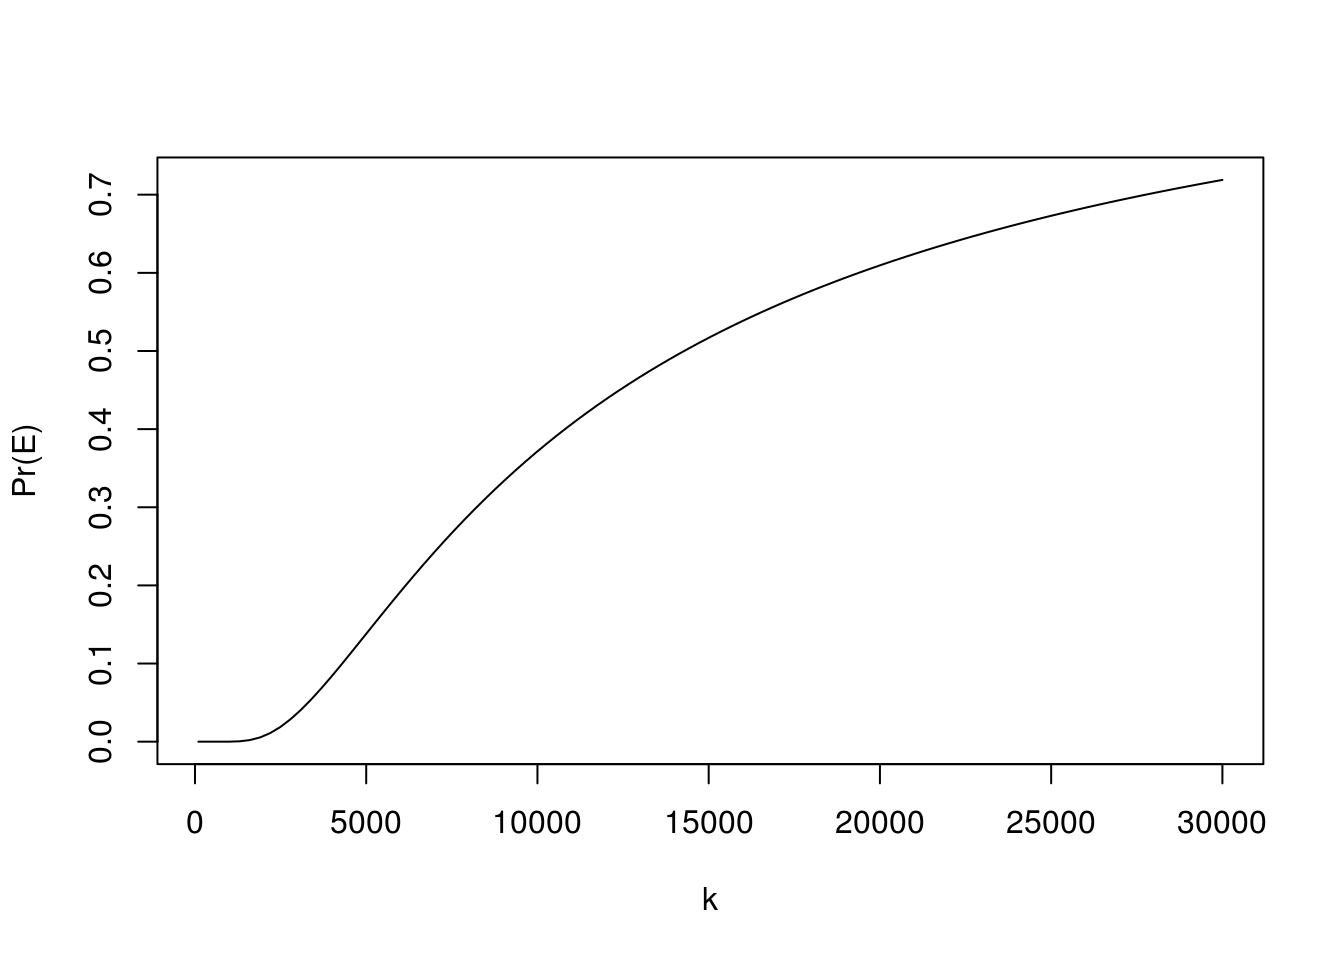
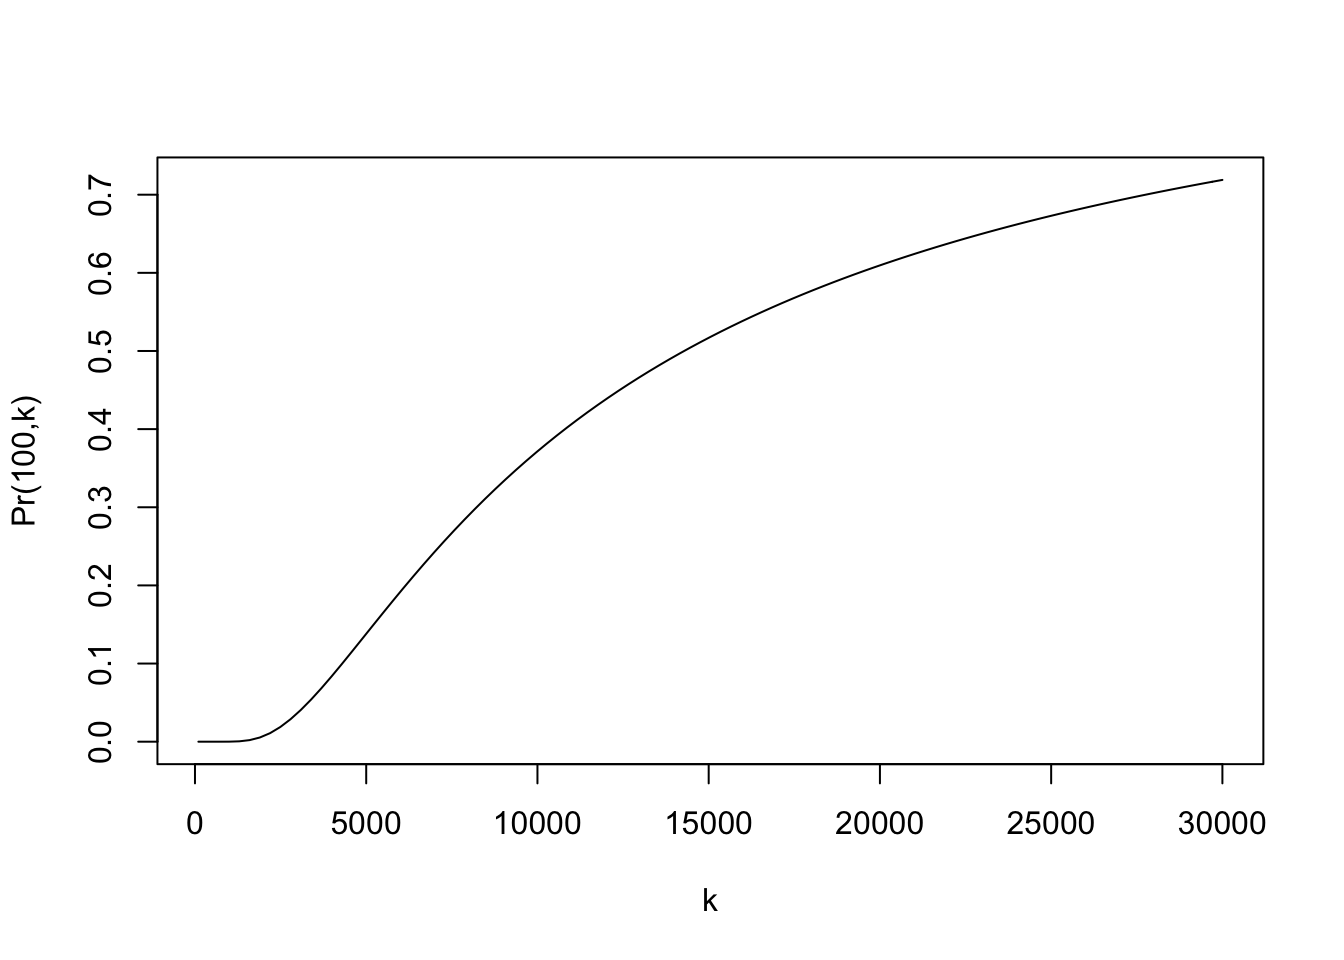
update the stars post

diff --git a/content/post/2017-09-19-stars-and-bars-and-prisoners.html b/content/post/2017-09-19-stars-and-bars-and-prisoners.html
@@ -23,41 +23,43 @@ slug: stars-and-bars-and-prisoners
 <h2>Combination</h2>
 <p>Since the order of the prisoners doesn’t matter, the problem is a <a href="https://en.wikipedia.org/wiki/Combination">combination</a> question. In conventional combinations, the number of <span class="math inline">\(k\)</span>-combinations of a <span class="math inline">\(n\)</span>-element set (<span class="math inline">\(k \leq n\)</span>) is equal to the binomial coefficient <span class="math inline">\({{n}\choose{k}} = \frac{n!}{k!(n-k)!} = \frac{n(n-1)...(n-k+1)}{k(k-1)...1}\)</span>. For example, there are <span class="math inline">\({{3}\choose{2}} = \frac{3 \times 2}{2 \times 1} = 3\)</span> ways to choose a 2-element tuple from a 3-element set <span class="math inline">\(\{A, B, C\}\)</span>, namely <span class="math inline">\((A, B)\)</span>, <span class="math inline">\((A, C)\)</span>, and <span class="math inline">\((B, C)\)</span>.</p>
 <p>Conventional combinations are drawn without repetition. The 3 tuples in the previous example are all unique sets. However, in our prisoner problem, the same prisoner can be taken more than once, so the binomial coefficient doesn’t seem to apply here.</p>
-<p>What we need here is a way to <a href="https://en.wikipedia.org/wiki/Multiset#Counting_multisets">count multisets</a>. Formally, the number of multisets of cardinality <span class="math inline">\(k\)</span>, with elements taken from a finite set of cardinality <span class="math inline">\(n\)</span>, is the multiset coefficient, written as <span class="math inline">\(\left(\!\!{n\choose k}\!\!\right)\)</span>.</p>
+<p>What I need here is a way to <a href="https://en.wikipedia.org/wiki/Multiset#Counting_multisets">count multisets</a>. Formally, the number of multisets of cardinality <span class="math inline">\(k\)</span>, with elements taken from a finite set of cardinality <span class="math inline">\(n\)</span>, is the multiset coefficient, written as <span class="math inline">\(\left(\!\!{n\choose k}\!\!\right)\)</span>.</p>
 <p>The value of multiset coefficient can be computed using an equivalent binomial coefficient.</p>
 <p><span class="math display">\[\left(\!\!{n\choose k}\!\!\right) = {{n+k-1}\choose{k}} = \frac{(n+k-1)!}{k!(n-1)!}\]</span></p>
 <p>To see this equivalence, one can use a simple technique called <a href="https://en.wikipedia.org/wiki/Stars_and_bars_(combinatorics)">stars and bars</a>.</p>
 <p>Suppose 3 elements are drawn with repetition from the set <span class="math inline">\({1,2}\)</span> of cardinality 2 (<span class="math inline">\(n=2, k=3\)</span>). It’s not difficult to enumerate all possible multisets because there are only 4 of them: <span class="math inline">\(\{1,1,1\}\)</span>, <span class="math inline">\(\{1,1,2\}\)</span>, <span class="math inline">\(\{1,2,2\}\)</span>, and <span class="math inline">\(\{2,2,2\}\)</span>.</p>
-<p>We can also represent those multisets in another form.</p>
+<p>I can also represent those multisets in another form.</p>
 <p><span class="math inline">\(\{{\bullet}{\bullet}{\bullet}|\}\)</span>, <span class="math inline">\(\{{\bullet}{\bullet}|{\bullet}\}\)</span>, <span class="math inline">\(\{{\bullet}|{\bullet}{\bullet}\}\)</span>, and <span class="math inline">\(\{|{\bullet}{\bullet}{\bullet}\}\)</span></p>
 <p>In this form, all elements are denoted as a dot. Vertical bars are put to divide the dots into bins, with each bin representing an element from the unique set. It’s possible to have a bin with no elements which basically means that the particular unique element doesn’t have any corresponding elements in the multiset (e.g., the first multiset doesn’t have element <span class="math inline">\(2\)</span> and the last multiset doesn’t have <span class="math inline">\(1\)</span>).</p>
-<p>One needs <span class="math inline">\(n-1\)</span> bars to represent a unique set of cardinality <span class="math inline">\(n\)</span>. If we count the total number of dots and bars in a <span class="math inline">\(k\)</span>-element multiset, it’s <span class="math inline">\(k+n-1\)</span>. Then the total number of possible <span class="math inline">\(k\)</span>-element multisets equals to the total number of ways of placing <span class="math inline">\(n-1\)</span> bars in <span class="math inline">\(k+n-1\)</span> items, which is <span class="math inline">\({{k+n-1}\choose{n-1}} = {{k+n-1}\choose{k}}\)</span>.</p>
+<p>One needs <span class="math inline">\(n-1\)</span> bars to represent a unique set of cardinality <span class="math inline">\(n\)</span>. If I count the total number of dots and bars in a <span class="math inline">\(k\)</span>-element multiset, it’s <span class="math inline">\(k+n-1\)</span>. Then the total number of possible <span class="math inline">\(k\)</span>-element multisets equals to the total number of ways of placing <span class="math inline">\(n-1\)</span> bars in <span class="math inline">\(k+n-1\)</span> items, which is <span class="math inline">\({{k+n-1}\choose{n-1}} = {{k+n-1}\choose{k}}\)</span>.</p>
 </div>
 <div id="the-denominator" class="section level2">
 <h2>The denominator</h2>
-<p>Let’s return to the original question. What’s the probability of all prisoners being taken to the room at least once after the warden takes <span class="math inline">\(k\)</span> times? To compute this probability, we need to compute the total number of possible scenarios which will serve as the denominator.</p>
-<p>The total number should equal to <span class="math inline">\(\left(\!\!{100\choose k}\!\!\right)\)</span>, for a <span class="math inline">\(k \geq 100\)</span>. From the previous section, we can work out <span class="math inline">\(\left(\!\!{100\choose k}\!\!\right) = {{k+100-1}\choose{k}} = {{k+99}\choose{k}}\)</span>.</p>
+<p>Let’s return to the original question. What’s the probability of all prisoners being taken to the room at least once after the warden takes <span class="math inline">\(k\)</span> times? To compute this probability, I need to compute the total number of possible scenarios which will serve as the denominator.</p>
+<p>The total number should equal to <span class="math inline">\(\left(\!\!{n\choose k}\!\!\right)\)</span>, for a <span class="math inline">\(k \geq n\)</span>. From the previous section, I can work out <span class="math inline">\(\left(\!\!{n\choose k}\!\!\right) = {{k+n-1}\choose{k}}\)</span>.</p>
 </div>
 <div id="the-numerator" class="section level2">
 <h2>The numerator</h2>
-<p>The numerator of the probability is the number of multisets in which all prisoners are present at least once. The trick to compute this number is to divide any such multiset into two parts: one set that contains all 100 prisoners and the other with remaining <span class="math inline">\(k-100\)</span> elements. Then the total number of such multisets equals to <span class="math inline">\(\left(\!\!{100\choose k-100}\!\!\right) = {{100+k-100-1}\choose{100-1}} = {{k-1}\choose{99}}\)</span>, for a <span class="math inline">\(k \geq 100\)</span>.</p>
+<p>The numerator of the probability is the number of multisets in which all prisoners are present at least once. The trick to compute this number is to divide any such multiset into two parts: one set that contains all 100 prisoners and the other with remaining <span class="math inline">\(k-100\)</span> elements. Then the total number of such multisets equals to <span class="math inline">\(\left(\!\!{n\choose k-n}\!\!\right) = {{n+k-n-1}\choose{n-1}} = {{k-1}\choose{n-1}}\)</span>, for a <span class="math inline">\(k \geq n\)</span>.</p>
 </div>
 <div id="the-probability" class="section level2">
 <h2>The probability</h2>
-<p>Once we have both the denominator and numerator, the probability is straightforward to compute.</p>
-<p><span class="math display">\[Pr(E) = \frac{{{k-1}\choose{99}}}{{{k+99}\choose{k}}} = \frac{\frac{(k-1)!}{99! \cdot (k-100)!}}{\frac{(k+99)!}{k! \cdot 99!}} = \frac{k!(k-1)!}{(k+99)!(k-100)!}\]</span></p>
-<p>We can plot this probability function for <span class="math inline">\(100 \leq k \leq 200\)</span>.</p>
+<p>Once I have both the denominator and numerator, the probability is straightforward to compute.</p>
+<p><span class="math display">\[Pr(n,k) = \frac{{{k-1}\choose{n-1}}}{{{k+n-1}\choose{k}}} = \frac{\frac{(k-1)!}{(n-1)! \cdot (k-n)!}}{\frac{(k+n-1)!}{k! \cdot (n-1)!}} = \frac{k!(k-1)!}{(k+n-1)!(k-n)!}\]</span></p>
+<p>In our case, <span class="math inline">\(n=100\)</span>, so</p>
+<p><span class="math display">\[Pr(100,k) = \frac{k!(k-1)!}{(k+99)!(k-100)!}\]</span></p>
+<p>I can plot this probability function for <span class="math inline">\(100 \leq k \leq 200\)</span>.</p>
 <pre class="r"><code>Pr &lt;- function(k) {
   choose(k-1, 99)/choose(k+99, k)
 }
-curve(Pr, from = 100, to = 200, xlab = &quot;k&quot;, ylab = &quot;Pr(E)&quot;)</code></pre>
+curve(Pr, from = 100, to = 200, xlab = &quot;k&quot;, ylab = &quot;Pr(100,k)&quot;)</code></pre>
 <p><img src="/post/2017-09-19-stars-and-bars-and-prisoners_files/figure-html/unnamed-chunk-1-1.png" width="672" /></p>
 <p>The plot shows that the probability of getting all prisoners at least once even after the warden takes 200 times is so slim that it’s practically 0.</p>
-<p>We can extend the possible <span class="math inline">\(k\)</span> values.</p>
-<pre class="r"><code>curve(Pr, from = 100, to = 30000, xlab = &quot;k&quot;, ylab = &quot;Pr(E)&quot;)</code></pre>
+<p>I can extend the possible <span class="math inline">\(k\)</span> values.</p>
+<pre class="r"><code>curve(Pr, from = 100, to = 30000, xlab = &quot;k&quot;, ylab = &quot;Pr(100,k)&quot;)</code></pre>
 <p><img src="/post/2017-09-19-stars-and-bars-and-prisoners_files/figure-html/unnamed-chunk-2-1.png" width="672" /></p>
 <p>For the probability to reach 10%, the warden needs to take nearly 5,000 times. The probability increases a bit faster once <span class="math inline">\(k\)</span> exceeds 5,000, but it still takes about 10,000 times before it gets near 40%.</p>
-<p>We can also find out the minimum <span class="math inline">\(k\)</span> that makes the probability greater than 50% (i.e., better than a coin flip).</p>
+<p>I can also find out the minimum <span class="math inline">\(k\)</span> that makes the probability greater than 50% (i.e., better than a coin flip).</p>
 <pre class="r"><code>for (k in seq(100, 30000, 1)) {
   if (Pr(k) &gt;= 0.5) {
     print(paste0(&quot;It takes &quot;, k, &quot; times for the probability to reach 50%.&quot;))
@@ -75,4 +77,101 @@ curve(Pr, from = 100, to = 200, xlab = &quot;k&quot;, ylab = &quot;Pr(E)&quot;)<
 }</code></pre>
 <pre><code>## [1] &quot;It takes 44367 times for the probability to reach 80%.&quot;</code></pre>
 <p>That’s 121.55 years! If that ever happens, the warden has to be the most dedicated warden in history.</p>
+</div>
+<div id="is-it-right" class="section level2">
+<h2>Is it right?</h2>
+<p>The short answer is: <em>No</em>.</p>
+<p>The slightly longer and more informative answer is: <em>No, because this assumption is wrong</em>.</p>
+<blockquote>
+<p>Since the order of the prisoners doesn’t matter, the problem is a combination question.</p>
+</blockquote>
+<p>To correctly compute the probability, the order in which the prisoners are taken does matter and it should be a permutation question.</p>
+<p>It’s hard to see this logic using a 100-element set, so let’s use a simple 3-element dummy set instead.</p>
+<p>Suppose there is a 3-element unique set <span class="math inline">\(S\)</span>, {<span class="math inline">\(A\)</span>, <span class="math inline">\(B\)</span> <span class="math inline">\(C\)</span>}.</p>
+<p>There are <span class="math inline">\(\left(\!\!{3\choose 3}\!\!\right) = {{3+3-1}\choose{3}} = {{5}\choose{3}} = 10\)</span> 3-combinations (with repetition) one can draw from the set.</p>
+<table>
+<thead>
+<tr class="header">
+<th>#</th>
+<th>3-combinations</th>
+</tr>
+</thead>
+<tbody>
+<tr class="odd">
+<td>1</td>
+<td>(<span class="math inline">\(A\)</span>, <span class="math inline">\(A\)</span>, <span class="math inline">\(A\)</span>)</td>
+</tr>
+<tr class="even">
+<td>2</td>
+<td>(<span class="math inline">\(A\)</span>, <span class="math inline">\(A\)</span>, <span class="math inline">\(B\)</span>)</td>
+</tr>
+<tr class="odd">
+<td>3</td>
+<td>(<span class="math inline">\(A\)</span>, <span class="math inline">\(A\)</span>, <span class="math inline">\(C\)</span>)</td>
+</tr>
+<tr class="even">
+<td>4</td>
+<td>(<span class="math inline">\(A\)</span>, <span class="math inline">\(B\)</span>, <span class="math inline">\(B\)</span>)</td>
+</tr>
+<tr class="odd">
+<td>5</td>
+<td>(<span class="math inline">\(A\)</span>, <span class="math inline">\(B\)</span>, <span class="math inline">\(C\)</span>)</td>
+</tr>
+<tr class="even">
+<td>6</td>
+<td>(<span class="math inline">\(A\)</span>, <span class="math inline">\(C\)</span>, <span class="math inline">\(C\)</span>)</td>
+</tr>
+<tr class="odd">
+<td>7</td>
+<td>(<span class="math inline">\(B\)</span>, <span class="math inline">\(B\)</span>, <span class="math inline">\(B\)</span>)</td>
+</tr>
+<tr class="even">
+<td>8</td>
+<td>(<span class="math inline">\(B\)</span>, <span class="math inline">\(B\)</span>, <span class="math inline">\(C\)</span>)</td>
+</tr>
+<tr class="odd">
+<td>9</td>
+<td>(<span class="math inline">\(B\)</span>, <span class="math inline">\(C\)</span>, <span class="math inline">\(C\)</span>)</td>
+</tr>
+<tr class="even">
+<td>10</td>
+<td>(<span class="math inline">\(C\)</span>, <span class="math inline">\(C\)</span>, <span class="math inline">\(C\)</span>)</td>
+</tr>
+</tbody>
+</table>
+<p>It’s easy to see that among the 10 combinations, only one set, (<span class="math inline">\(A\)</span>, <span class="math inline">\(B\)</span>, <span class="math inline">\(C\)</span>), includes all 3 unique elements. So the probability is simply <span class="math inline">\(1/10 = 0.1\)</span>.</p>
+<p>Alternatively, I can simply plug in <span class="math inline">\(n=3, k=3\)</span> into the formula.</p>
+<p><span class="math display">\[Pr(3,3) = \frac{3!(3-1)!}{(3+3-1)!(3-3)!} = \frac{3!2!}{5!0!} = \frac{3 \times 2 \times 1 \times 2 \times 1}{5 \times 4 \times 3 \times 2 \times 1} = \frac{12}{120} = 0.1\]</span></p>
+<p>Is the probability really 10%? I can run a simulation to find out.</p>
+<pre class="r"><code>n &lt;- 3
+k &lt;- 3
+S &lt;- LETTERS[1:n]
+sims &lt;- replicate(50000, sample(S, k, replace = TRUE), simplify = FALSE)
+(p &lt;- sum(sapply(sims, function(x) length(setdiff(S, x)) == 0))/50000)</code></pre>
+<pre><code>## [1] 0.22256</code></pre>
+<p>The simulation suggests that 22.3% of the samples have all 3 unique elements in them. That’s a lot higher than the 10% I’ve computed.</p>
+<p>This is because the combination that has all 3 elements is actually more likely to happen in permutations.</p>
+<p>The total number of 3-permutations (with repetition) from a 3-element unique set is <span class="math inline">\(3^3 = 27\)</span>. The total number of 3-permutations (without repetition) from the same set is <span class="math inline">\(3! = 3 \times 2 \times 1 = 6\)</span>. Therefore, the probability of a sample set having all 3 elements is <span class="math inline">\(6/27 \approx 22.2\%\)</span>.</p>
+<p>One can imagine a frequency multiplier for each one of the 10 possible 3-combinations. This multiplier tells how many permutations a particular combination has. If all combinations have the same multiplier, the probability formula using combination counts would be right. The simple example shows that this is not the case and the combination with all 3 elements must have a greater multiplier than average.</p>
+<p>In the table above, I list out all possible 3-combinations. I can also represent each combination by the number of unique elements it has and how many times each unique element occurrs. For example, in (<span class="math inline">\(A\)</span>, <span class="math inline">\(A\)</span>, <span class="math inline">\(B\)</span>), there are 2 unique elements <span class="math inline">\(A\)</span> and <span class="math inline">\(B\)</span>. <span class="math inline">\(A\)</span> occurrs twice and <span class="math inline">\(B\)</span> once. Let’s denote each unique elements’s frequency in a combination <span class="math inline">\(m_j\)</span>. In the example, <span class="math inline">\(m_1 = 2\)</span> and <span class="math inline">\(m_2 = 1\)</span>.</p>
+<p>One can show that the number of permutations (aka the frequency multiplier) of a <span class="math inline">\(m\)</span>-element combination is <span class="math inline">\(\frac{m!}{m_1! \cdot m_2! \cdot ... \cdot m_j!}\)</span>, where <span class="math inline">\(\sum{m_j}=m\)</span></p>
+<p>It’s clear from this formula why the combination having all 3 elements has the greatest frequency multiplier. All combinations have the same numerator <span class="math inline">\(m!\)</span> while the combination having all 3 elements has the lowest denominator.</p>
+<p>This makes me think that our probability formula is vastly underestimating the actual probability. The prisoners might have a shot at this game after all.</p>
+</div>
+<div id="permutation" class="section level2">
+<h2>Permutation</h2>
+<p>It’s straightforward to compute the denominator which is the total number of possible permutations. When drawing <span class="math inline">\(k\)</span> items (with repetition) from a unique <span class="math inline">\(n\)</span>-element set, the total number of permutations is simply <span class="math inline">\(n^k\)</span> (each item of the <span class="math inline">\(k\)</span> items can be any one of the <span class="math inline">\(n\)</span> elements from the set).</p>
+<p>The numerator isn’t so easy to compute. One needs to use the <a href="https://en.wikipedia.org/wiki/Inclusion%E2%80%93exclusion_principle">inclusion-exclusion principle</a>.</p>
+<p>First of all, the number of permutations that have all elements from the unique set is equal to the total number of possible permutations minus the number of permutations that miss at least one element from the unique set.</p>
+<p>Let’s denote set of all <span class="math inline">\(k\)</span>-permutations that miss element <span class="math inline">\(i\)</span> as <span class="math inline">\(M_i\)</span>. Therefore, <span class="math inline">\(M_1\)</span> include all <span class="math inline">\(k\)</span>-permutations that miss element <span class="math inline">\(1\)</span>, and so on.</p>
+<p>The numerator we’re interested in can be computed as the following.</p>
+<p><span class="math display">\[n^k-(\]</span></p>
+<p><span class="math display">\[|M_1| + |M_2| + ... + |M_n|\]</span> <span class="math display">\[- |M_1 \cap M_2| - ... - |M_{n-1} \cap M_n|\]</span> <span class="math display">\[+ |M_1 \cap M_2 \cap M_3| + ... + |M_{n-2} \cap M_{n-1} \cap M_n|\]</span> <span class="math display">\[- ... - ...\]</span> <span class="math display">\[+ (-1)^n|M_1 \cap M_2 \cap ... \cap M_n|)\]</span></p>
+<p>This can be simplified to</p>
+<p><span class="math display">\[n^k - ((n-1)^k{{n}\choose{1}} - (n-2)^k{{n}\choose{2}} + ... + (-1)^{n-1}(n-n)^k{{n}\choose{n}})\]</span></p>
+<p>Since <span class="math inline">\(n^k\)</span> can be written as <span class="math inline">\((n-0)^k{{n}\choose{0}}\)</span>, the formula can be simplified.</p>
+<p><span class="math display">\[\sum_{j=0}^{n} (-1)^{j} (n-j)^k {{n}\choose{j}}\]</span></p>
+<p>For example, when <span class="math inline">\(n=3\)</span> and <span class="math inline">\(k=3\)</span>,</p>
+<p><span class="math display">\[\sum_{j=0}^{3} (-1)^{j} (3-j)^3 {{3}\choose{j}}\]</span> <span class="math display">\[=3^3 - 2^3{{3}\choose{1}} + 1^3{{3}\choose{2}} - 0 = 27 - 8 \cdot 3 + 1 \cdot 3 = 6\]</span></p>
+<p>Now we have both the numerator and denominator, we can compute the probability function.</p>
 </div>
